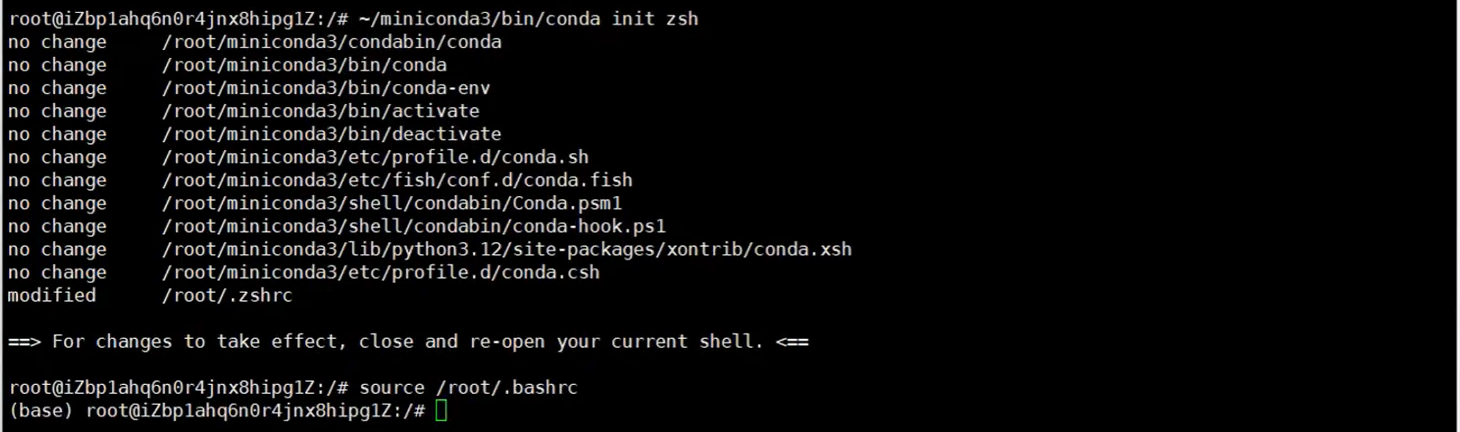
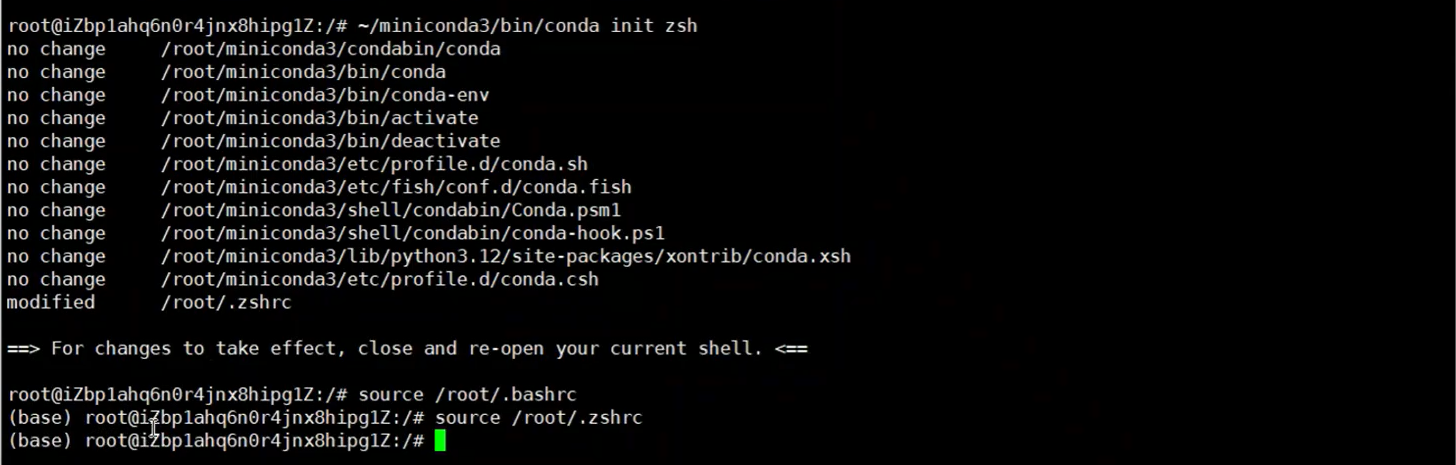
mirror sources

Changed region(s): [[0.0, 0.0301, 0.5872, 0.9931], [0.989, 0.0, 1.0, 1.0]]

diff --git a/source/0001_模型部署/0005_vLLM/README.md b/source/0001_模型部署/0005_vLLM/README.md
@@ -27,8 +27,36 @@ bash ~/miniconda3/miniconda.sh -b -u -p ~/miniconda3
 ~/miniconda/bin/conda init bash
 ~/miniconda/bin/conda init zsh
 source /root/.bashrc
+source /root/.zshrc
 ```
 
 ![](images/2025-03-11_152026.png)
 
 ![](images/2025-03-11_152207.png)
+
+#### 2.1.1 修改镜像源
+
+```bash
+vim /root/miniconda3/.condarc
+```
+
+![](images/2025-03-11_160314.png)
+
+```bash
+show_channel_urls: true
+channels:
+  - https://mirrors.tuna.tsinghua.edu.cn/anaconda/cloud/pytorch
+  - https://mirrors.tuna.tsinghua.edu.cn/anaconda/cloud/msys2
+  - https://mirrors.tuna.tsinghua.edu.cn/anaconda/cloud/conda-forge
+  - https://mirrors.tuna.tsinghua.edu.cn/anaconda/pkgs/main
+  - https://mirrors.tuna.tsinghua.edu.cn/anaconda/pkgs/free
+custom_channels:
+  conda-forge: https://mirrors.tuna.tsinghua.edu.cn/anaconda/cloud
+  msys2: https://mirrors.tuna.tsinghua.edu.cn/anaconda/cloud
+  bioconda: https://mirrors.tuna.tsinghua.edu.cn/anaconda/cloud
+  menpo: https://mirrors.tuna.tsinghua.edu.cn/anaconda/cloud
+  pytorch: https://mirrors.tuna.tsinghua.edu.cn/anaconda/cloud
+  pytorch-lts: https://mirrors.tuna.tsinghua.edu.cn/anaconda/cloud
+  simpleitk: https://mirrors.tuna.tsinghua.edu.cn/anaconda/cloud
+```
+
